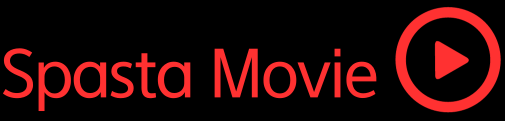
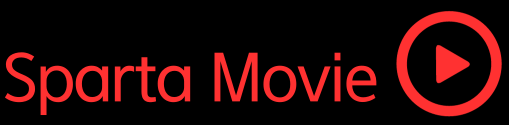
로고 이미지 수정

diff --git a/movieCard/movie.js b/movieCard/movie.js
@@ -79,12 +79,16 @@ searchForm.addEventListener("submit", (e) => {
   // 인풋값을 소문자로 변환하여 가져오기
   // 영화 카드 가져오기 (카드 제목으로 검색 키워드랑 비교해야 하니까)
 
-  e.preventDefault();// 기본행동을 막는 함수 form은 기본적으로 새로고침을한다
+  e.preventDefault();
+  // preventDefault 기본행동을 막는 함수 form은 기본적으로 새로고침을한다
+  // e - 이벤트 대상
 
   // alert('테스트');
   const searchInput = document.getElementById("search").value.toLowerCase();
   const movieCards = document.querySelectorAll(".card");
 
+  searchInput.focus();
+  
   console.log("Search Input :", searchInput)
   console.log("movieCards :", movieCards)
 

diff --git a/movieCard/movie.html b/movieCard/movie.html
@@ -13,7 +13,7 @@
   <div class="container">
     <header>
       <img src="/movieCard/img/title.png" alt="Spasta Movie" onclick="location.reload();">
-     <p id="logoText">로고를 클릭하면 새로고침됩니다 &#8634;</p>
+     <p id="logoText">로고를 클릭하면 새로고침됩니다. &#8634;</p>
     </header>
     <form id="searchForm">
       <label for="search">영화 검색</label>
